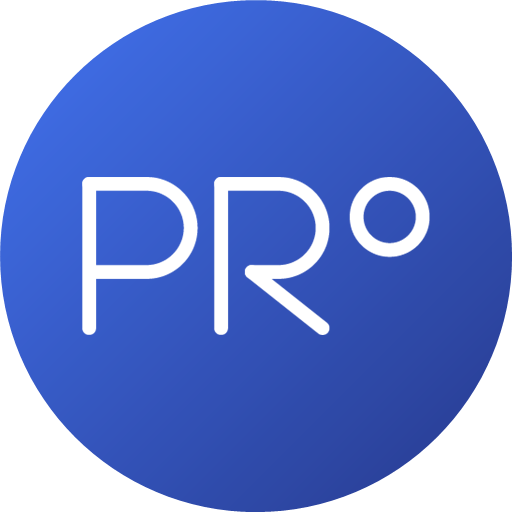
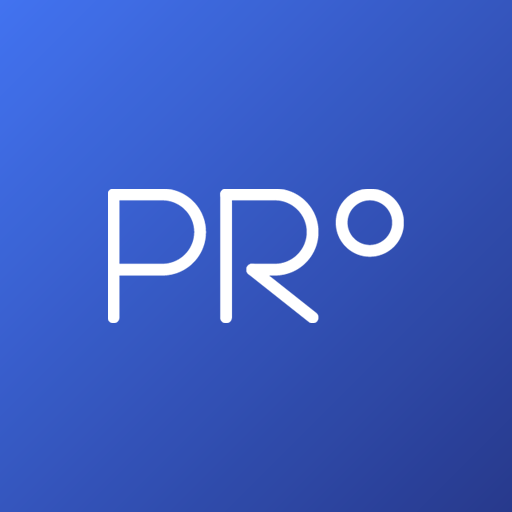
feat: v=20260729d 홈 화면 아이콘 개선 — PWA manifest + 꽉 찬 아이콘 (전략실장 실기기 피드백)
- 갤럭시 홈 화면 추가 시 흰 타일 위 작은 원으로 보이던 것(모서리 투명) 해소
- site.webmanifest 신설: icon-192/512 (any maskable), display:browser(브라우저 동작 불변)
- icon-192 신규 + icon-512/apple-touch-icon을 배경 꽉 찬 사각(그라데이션 full-bleed)으로 재생성
- 탭 파비콘(동그라미 favicon.ico/16/32/48)은 무수정 — 홈 아이콘과 분리 운용
- index.html <link rel="manifest"> 1줄 추가

diff --git a/index.html b/index.html
@@ -45,6 +45,8 @@
   <link rel="icon" type="image/png" sizes="32x32" href="/assets/images/favicon-32x32.png">
   <link rel="icon" type="image/png" sizes="16x16" href="/assets/images/favicon-16x16.png">
   <link rel="apple-touch-icon" sizes="180x180" href="/assets/images/apple-touch-icon.png">
+  <!-- v=20260729d — 홈 화면 추가용 manifest(안드로이드): 탭 파비콘(동그라미)과 달리 홈 아이콘은 배경 꽉 찬 버전(icon-192/512, maskable) → 흰 타일에 작게 보이던 것 해소 -->
+  <link rel="manifest" href="/site.webmanifest">
   <!-- v=20260713g — OG 메타(카카오톡/SNS 링크 미리보기): 공식홈(proenterprise.co.kr) 카드와 톤 통일 -->
   <meta property="og:type" content="website">
   <meta property="og:title" content="인카금융서비스 프로사업단총괄">
